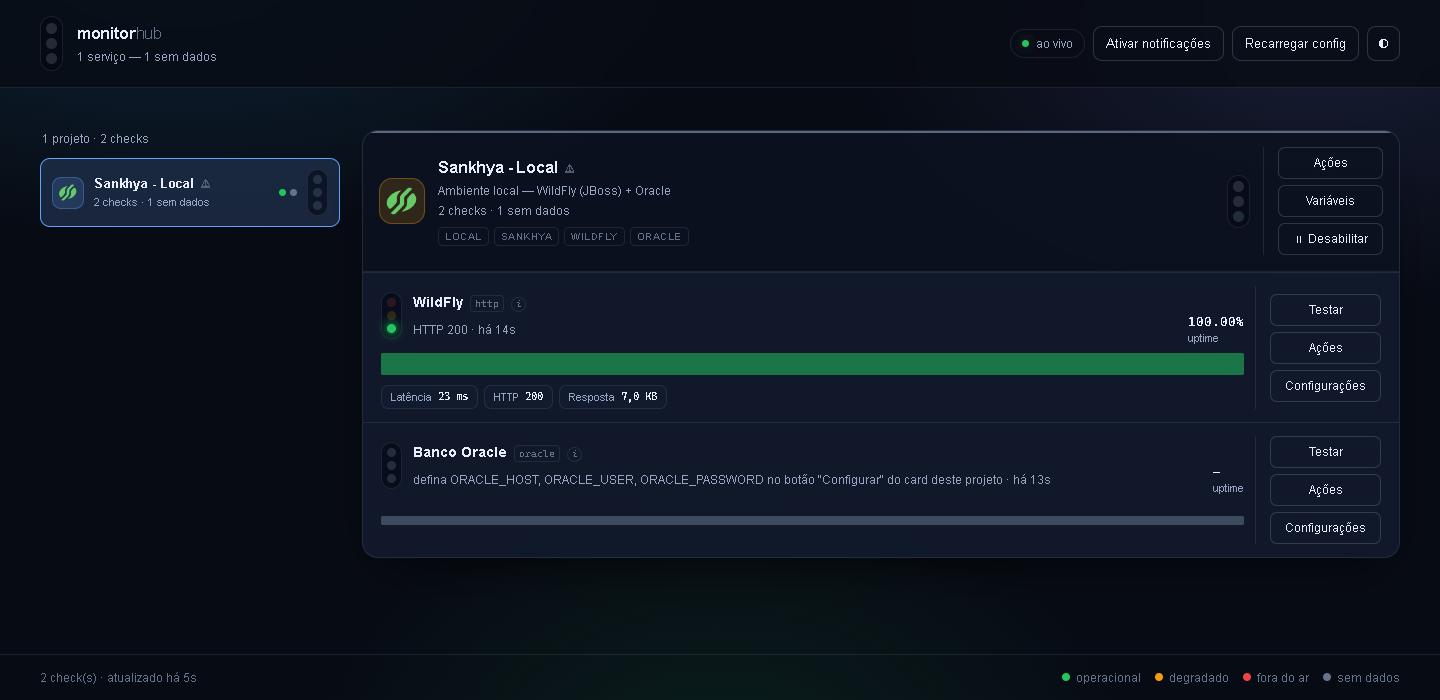
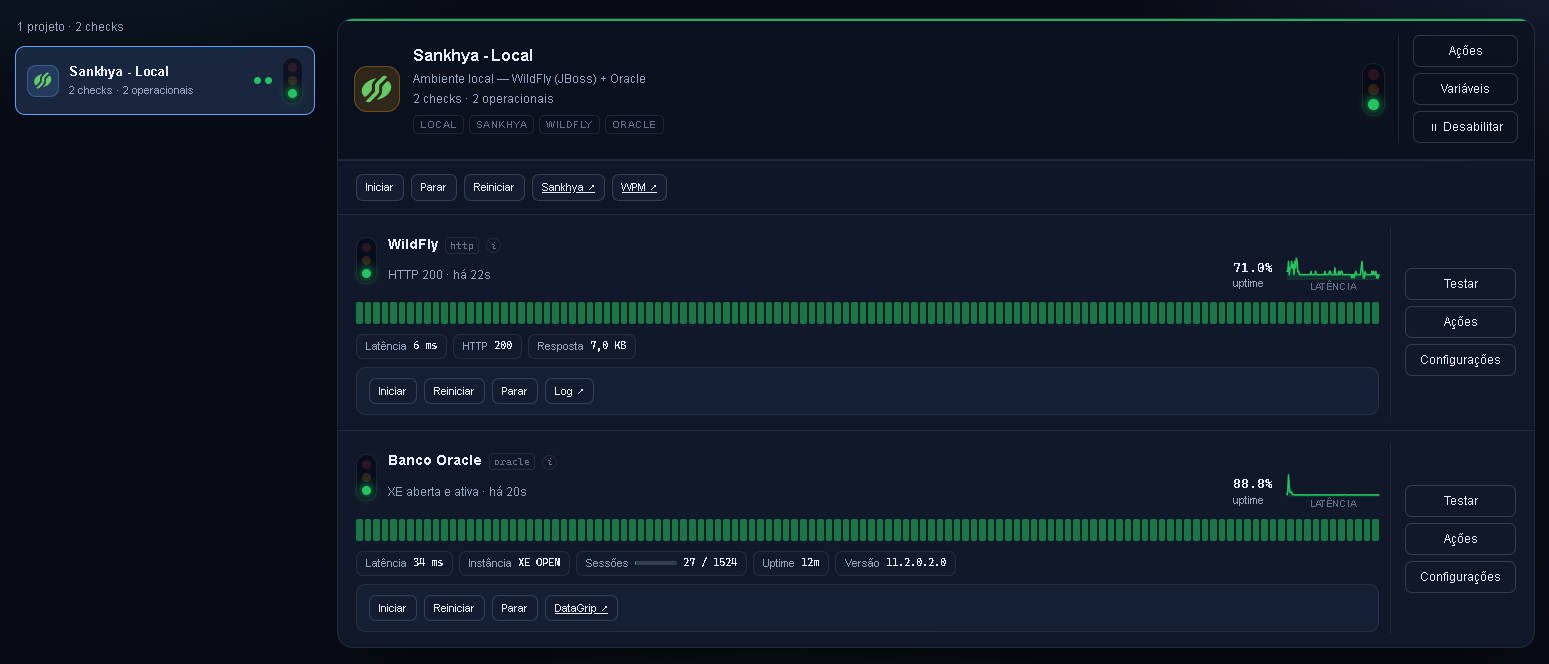
📝docs(readme): atualiza screenshot do dashboard e adiciona print do log ao vivo

diff --git a/README.md b/README.md
@@ -54,6 +54,10 @@ sessões/uptime/versão). Cada card tem botões de **Ações** (subir/parar/rein
 serviço e banco), **Testar** (roda o check na hora) e **Configurações** (intervalo e
 timeout).
 
+Botão **Log** abre o `server.log` do WildFly ao vivo, direto no navegador:
+
+![Tela de log ao vivo do server.log do WildFly, aberta a partir do botão Log no card do check](docs/screenshots/server-log.png)
+
 ---
 
 ## Derrubar
